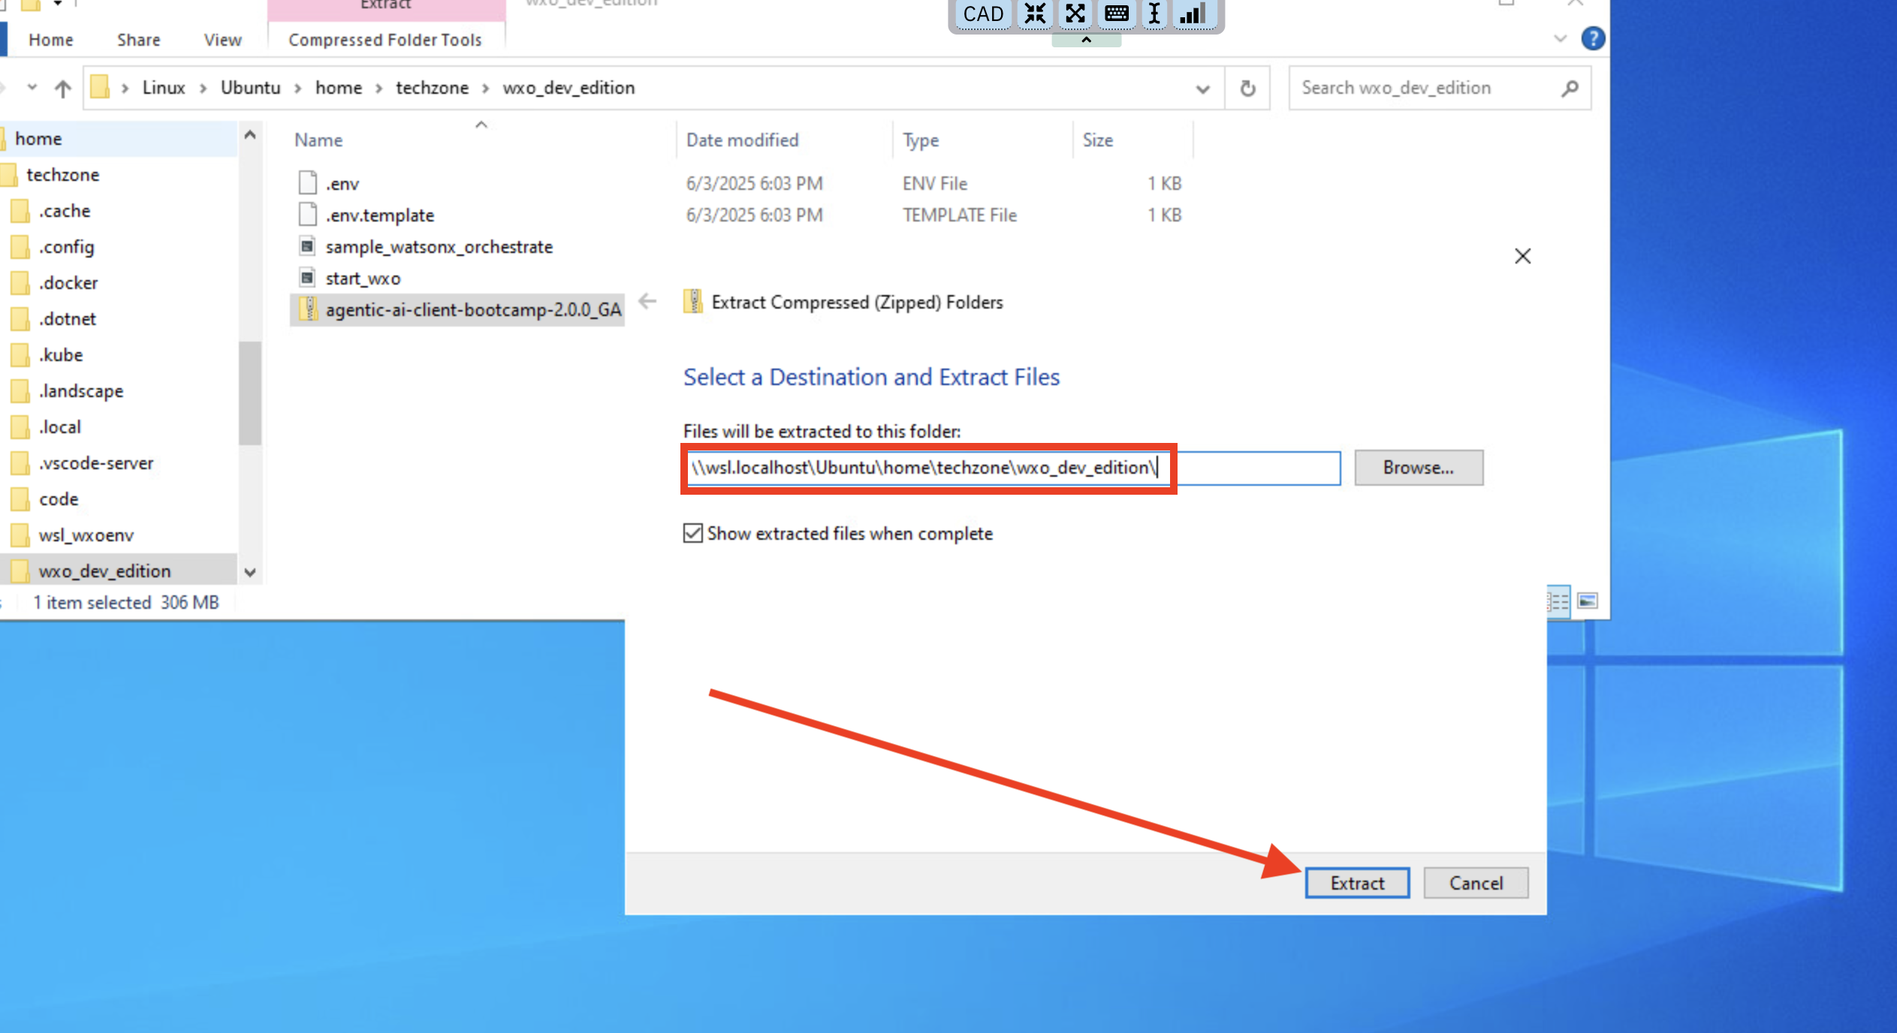
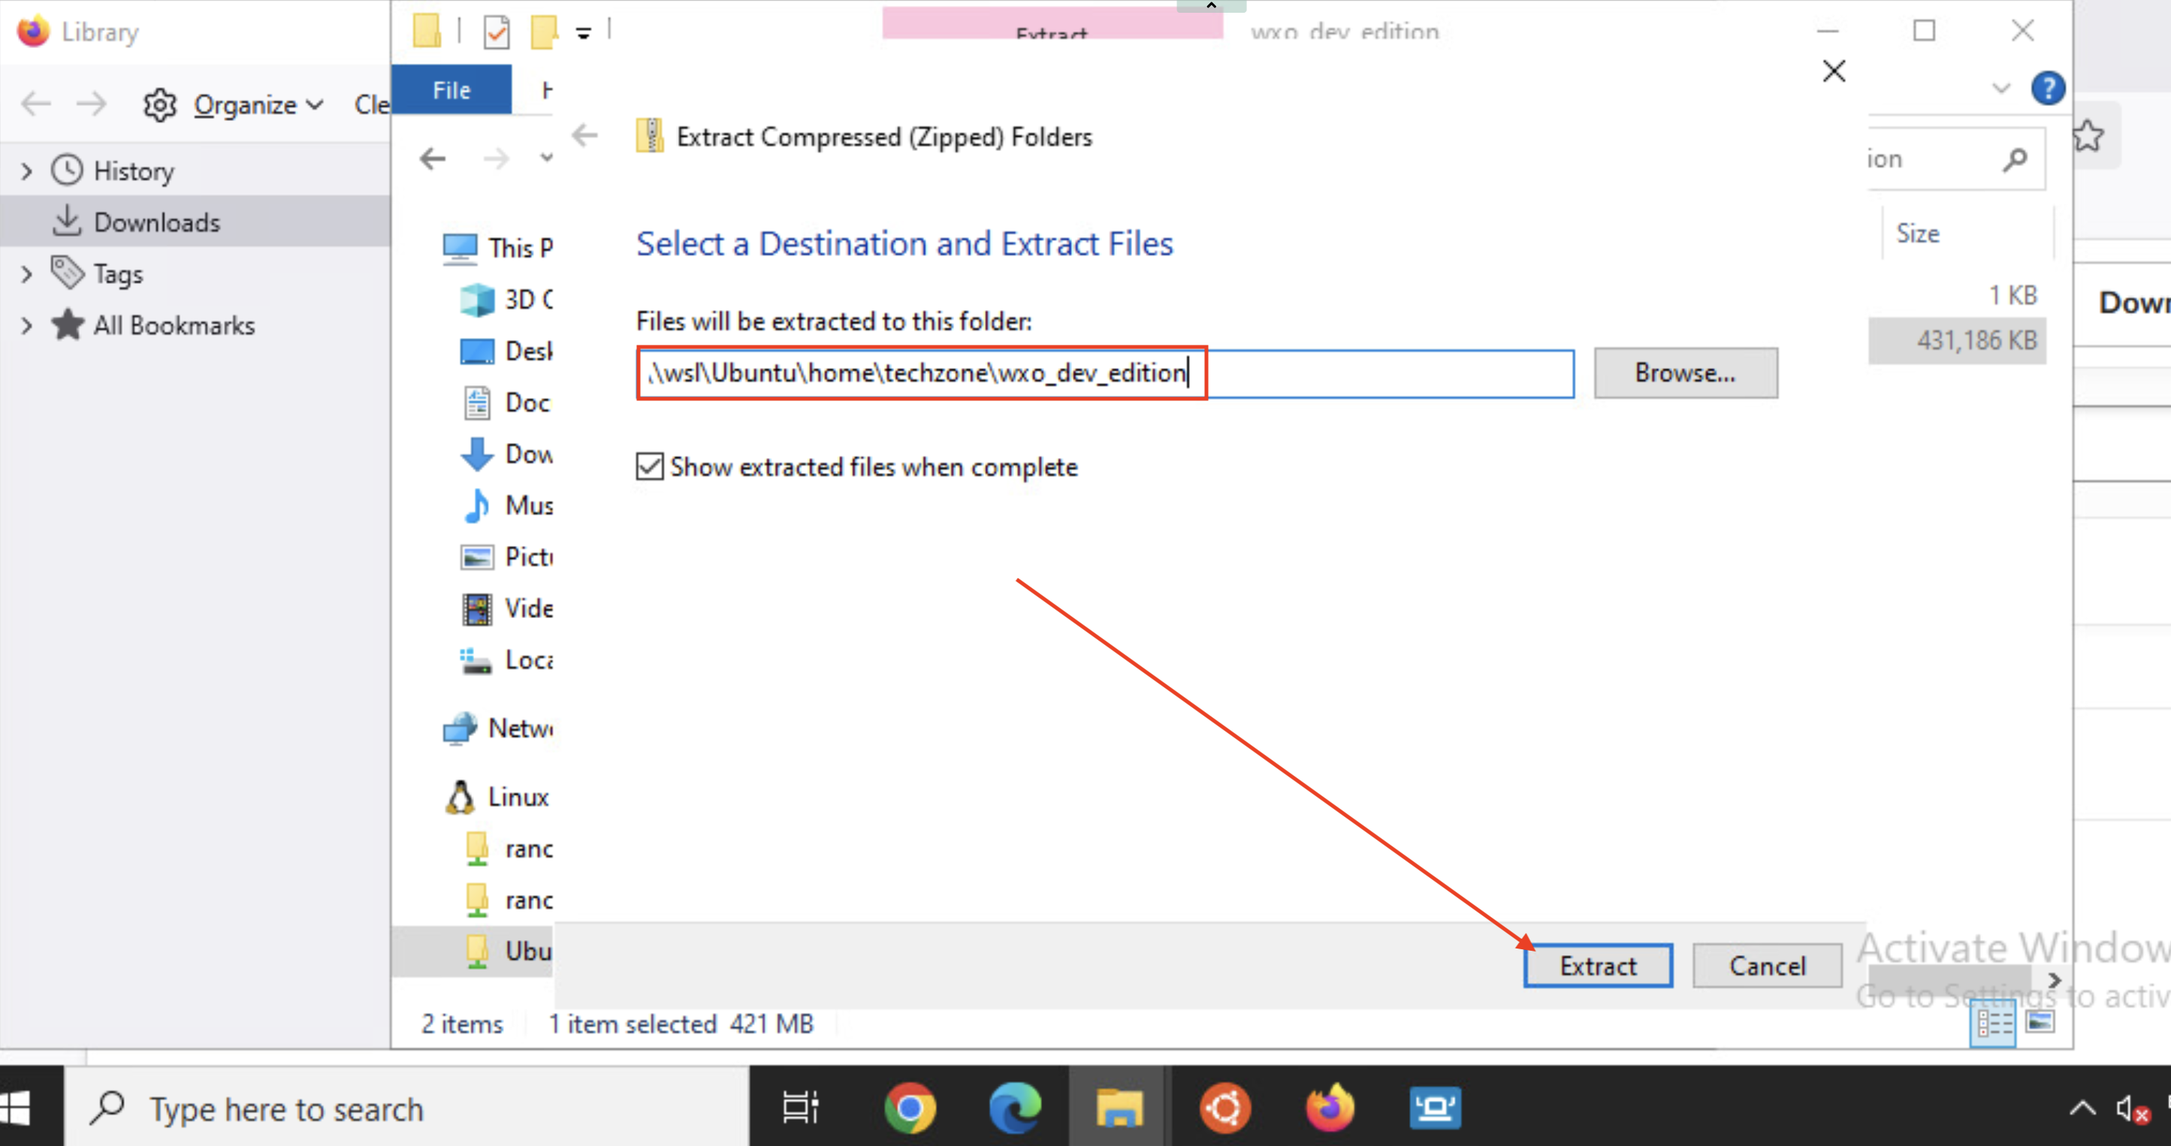
Dev ann (#251)
* Updated Behavior

* updates for latest release

* Sync up dev_ann to main (#248)

* Update hands_on_lab_autoclaim_insurance.md

* Update hands_on_lab_autoclaim_insurance.md

* Update hands_on_lab_autoclaim_insurance.md

* Update hands_on_lab_autoclaim_insurance.md

* remove backup file

* Updated Behavior

* updates for latest release

---------

* Try again (#249)

* Update hands_on_lab_autoclaim_insurance.md

* Update hands_on_lab_autoclaim_insurance.md

* Update hands_on_lab_autoclaim_insurance.md

* Update hands_on_lab_autoclaim_insurance.md

* remove backup file

* Updated Behavior

* updates for latest release

---------

* added steps to migrate to WXO

* fixed image names

* a little cleanup

---------

diff --git a/usecases/retail/src/tools/web_search.py b/usecases/retail/src/tools/web_search.py
@@ -11,29 +11,16 @@ tavily_api_key=''
 is_called_from_orchestrate=True
 
 @tool(
-        {"app_id": CONNECTION_TAVILY, "type": ConnectionType.KEY_VALUE}
+# insert your code here
 )
 def web_search(query: str) -> str:
-    """Use Tavily to search the web and return the top results for a given query string."""
 
-    global tavily_api_key
+# insert your code here
 
-    if is_called_from_orchestrate == True:
-        tavily_api_key = connections.key_value(CONNECTION_TAVILY)['apikey']
-
-    search = TavilySearchResults(max_results=5, tavily_api_key=tavily_api_key)
-    results = search.run(query)
     return results
 
 if __name__ == "__main__":
     parser = argparse.ArgumentParser()
     parser.add_argument("--input", required=True, help="Search string")
 
-    args = parser.parse_args()
-
-    load_dotenv()
-    tavily_api_key=os.getenv("TAVILY_API_KEY")
-    is_called_from_orchestrate=False
-
-    results = web_search(args.input)
-    print("Search results:", results)
+# insert your code here

diff --git a/usecases/ask-hr/assets/hands-on-lab-askHR.md b/usecases/ask-hr/assets/hands-on-lab-askHR.md
@@ -3,13 +3,15 @@
 
 ## Table of Contents
 
-- [Use case description](#use-case-description)
+- [Use Case description](#use-case-description)
 - [Architecture](#architecture)
 - [Pre-requisites](#pre-requisites)
-- [Step by step instructions to build agents](#step-by-step-instructions-to-build-agents)
-  - [Deploying HR agent](#deploying-hr-agent)
+- [Instructions](#instructions)
+  - [Open Agent Builder](#open-agent-builder)
+  - [Create HR Agent](#create-hr-agent)
+  - [Test HR Agent in preview](#test-hr-agent-in-preview)
+  - [Test HR Agent in AI Chat](#test-agent-in-ai-chate)
 
-    
 ## Use Case Description
 
 This use case targets developing and deploying an AskHR agent leveraging IBM watsonx Orchestrate, as depicted in the provided architecture diagram. This agent will empower employees to interact with HR systems and access information efficiently through conversational AI. 
@@ -21,8 +23,6 @@ In this lab we will build an HR agent in watsonx Orchestrate, leveraging tools a
 <img width="1000" alt="image" src="arch_diagm.png">
 
 
-
-
 ## Pre-requisites
 
 - Check with your instructor to make sure **all systems** are up and running before you continue.
@@ -31,114 +31,114 @@ In this lab we will build an HR agent in watsonx Orchestrate, leveraging tools a
 - If you're an instructor running this lab, check the **Instructor's guides** to set up all environments and systems.
 
 
+## Instructions
 
+### Open Agent Builder
 
-## Step by step instructions to build the HR Agent:
+- Log in to IBM Cloud (cloud.ibm.com). Navigate to top left hamburger menu, then to Resource List. Open the AI/Machine Learning section. You should see a **watsonx Orchestrate** service, click to open.
 
-1. When you launch watsonx Orchestrate, you'll be directed to this page. Click on the hamburger menu in the top left corner:
+  <img width="1000" alt="image" src="../../../environment-setup/assets/cloud-resource-list.png">
 
-<img width="1000" alt="image" src="hands-on-lab-assets/step1.png">
+- Click the "Launch watsonx Orchestrate" button.
 
-2. Click on the down arrow next to **Build**.  Then click on **Agent Builder**:
+  <img width="1000" alt="image" src="../../../environment-setup/assets/cloud-wxo.png">
 
-<img width="1000" alt="image" src="hands-on-lab-assets/step2.png">
+- Welcome to watsonx Orchestrate. Open the hamburger menu, click on the down arrow next to **Build**.  Then click on **Agent Builder**:
 
-3. Click on **Create agent +**:
+  <img width="1000" alt="image" src="../../../environment-setup/assets/wxo-agent-builder.png">
 
-<img width="1000" alt="image" src="hands-on-lab-assets/step3.png">
+### Create HR Agent
+1. Click on **Create agent +**:
 
-4. Select "Create from scratch", give your agent a name, e.g. "HR Agent", and fill in the description as shown below: 
+   <img width="1000" alt="image" src="hands-on-lab-assets/step3.png">
 
-```
-You are an agent who handles employee HR queries.  You provide short and crisp responses, keeping the output to 200 words or less.  You can help users check their profile data, retrieve latest time off balance, update title or address, and request time off. You can also answer general questions about company benefits.
-```  
-Click on **Create**:
+1. Select **Create from scratch**, give your agent a name, e.g. `HR Agent`, and fill in the **Description** as shown below: 
 
-<img width="1000" alt="image" src="hands-on-lab-assets/hr_step4.png">
+   ```
+   You are an agent who handles employee HR queries.  You provide short and crisp responses, keeping the output to 200 words or less.  You can help users check their profile data, retrieve latest time off balance, update title or address, and request time off. You can also answer general questions about company benefits.
+   ```  
+   Click on **Create**:
 
-5. Scroll down the screen to the **Knowledge** section. Copy the following description into the **Knowledge Description** section:
+   <img width="1000" alt="image" src="hands-on-lab-assets/hr_step4.png">
 
-```
-This knowledge base addresses the company's employee benefits, including parental leaves, pet policy, flexible work arrangements, and student loan repayment.
-```
+1. Scroll down the screen to the **Knowledge** section. Copy the following description into the **Description** section:
 
-Click on **Upload files**:
+   ```
+   This knowledge base addresses the company's employee benefits, including parental leaves, pet policy, flexible work arrangements, and student loan repayment.
+   ```
 
-<img width="1000" alt="image" src="hands-on-lab-assets/hr_step5.png">
+1. Download the [Employee Benefits.pdf](/usecases/ask-hr/assets/Employee-Benefits.pdf) onto your system, then upload by clicking on **Upload files**:
 
-6. Drag and drop the [Employee Benefits.pdf](/usecases/ask-hr/assets/Employee-Benefits.pdf) and click on **Upload**:
+   <img width="1000" alt="image" src="hands-on-lab-assets/hr_step5.png">
+   <img width="1000" alt="image" src="hands-on-lab-assets/hr_step6.png">  
+   <img width="1000" alt="image" src="hands-on-lab-assets/hr_step7.png">  
 
-<img width="1000" alt="image" src="hands-on-lab-assets/hr_step6.png">  
+1. Scroll down to the **Toolset** section. Click on **Add tool +**:
 
-7. Wait until the file has been uploaded successfully and double check that it is now shown in the Knowledge section: 
+   <img width="1000" alt="image" src="hands-on-lab-assets/hr_step8.png">
 
-<img width="1000" alt="image" src="hands-on-lab-assets/hr_step7.png">  
+1. Select **Import**:
 
-8. Scroll down to the **Toolset** section. Click on **Add tool +**:
+   <img width="1000" alt="image" src="hands-on-lab-assets/step13.png">
 
-<img width="1000" alt="image" src="hands-on-lab-assets/hr_step8.png">
+1. Drag and drop or click to upload the **hr.yaml** file (provided to you by the instructor), then click on **Next**:
 
-9. Select **Import**:
+   <img width="1000" alt="image" src="hands-on-lab-assets/hr_step10.png">    
 
-<img width="1000" alt="image" src="hands-on-lab-assets/step13.png">
+1. Select all the operations and click on **Done**:
 
-10. Drag and drop or click to upload the **hr.yaml** file (provided to you by the instructor), then click on **Next**:
+   <img width="1000" alt="image" src="hands-on-lab-assets/hr_step11.png">
 
-<img width="1000" alt="image" src="hands-on-lab-assets/hr_step10.png">    
+1. Scroll down to the **Behavior** section. Insert the instructions below into the **Instructions** field:
 
-11. Select all the operations and click on **Done**:
+   ```
+   Use your knowledge base to answer general questions about employee benefits. 
 
-<img width="1000" alt="image" src="hands-on-lab-assets/hr_step11.png">
+   Use the tools to get or update user specific information.
 
-12. Scroll down to the **Behavior** section. Insert the instructions below into the **Instructions** field:
+   When user asks to show profile data or check time off balance or update title/address or request time off for the very first time,  first ask the user for their name,  then invoke the tool and then use the same name in the whole session without asking for the name again.
 
-```
-Use your knowledge base to answer general questions about employee benefits. 
+   When the user requests time off, convert the dates to YYYY-MM-DD format, e.g. 5/22/2025 should be converted to 2025-05-22 before passing the date to the post_request_time_off tool.
+   ```
+   <img width="1000" alt="image" src="hands-on-lab-assets/hr_step12.png">
+1. Click on **Deploy** in the top right corner to deploy your agent:
 
-Use the tools to get or update user specific information.
+   <img width="1000" alt="image" src="hands-on-lab-assets/hr_step14.png">
 
-When user asks to show profile data or check time off balance or update title/address or request time off for the very first time,  first ask the user for their name,  then invoke the tool and then use the same name in the whole session without asking for the name again.
-
-When the user requests time off, convert the dates to YYYY-MM-DD format, e.g. 5/22/2025 should be converted to 2025-05-22 before passing the date to the post_request_time_off tool.
- ```
-
- <img width="1000" alt="image" src="hands-on-lab-assets/hr_step12.png">
-
-13. Test your agent in the preview chat on the right side by asking the following questions and validating the responses.  They should look similar to what is shown in the screenshots below:
-
-```
-1. What is the pet policy? 
-
-2. Show me my profile data.
-
-3. I'd like to update my title. 
-
-4. Update my address
-
-5. What is my time off balance?
-
-6. Request time off
-
-7. Show my profile data.
+### Test HR Agent in Preview
+Test your agent in the preview chat on the right side by asking the following questions and validating the responses.  They should look similar to what is shown in the screenshots below:
 
 ```
-
+What is the pet policy? 
+```
 <img width="1000" alt="image" src="hands-on-lab-assets/hr_step13.png">
 
+```
+Show me my profile data.
+I'd like to update my title. 
+```
 <img width="1000" alt="image" src="hands-on-lab-assets/hr_step13_2.png">
 
+```
+Update my address
+What is my time off balance?
+```
 <img width="1000" alt="image" src="hands-on-lab-assets/hr_step13_3.png">
+
+
+```
+Request time off
+Show my profile data.
+```
 
 <img width="1000" alt="image" src="hands-on-lab-assets/hr_step13_4.png">
 
-14. Once you have validated the answers, click on **Deploy** in the top right corner to deploy your agent:
+#### Test HR Agent AI Chat
 
-<img width="1000" alt="image" src="hands-on-lab-assets/hr_step14.png">
-
-15. Click on the hamburger menu in the top left corner and then click on **Chat**:
+Test the Agent from the AI Chat window. Click on the hamburger menu in the top left corner and then click on **Chat**:
 
 <img width="1000" alt="image" src="hands-on-lab-assets/hr_step15.png">
 
-16. Make sure **HR Agent** is selected. You can now test your agent:
+Make sure **HR Agent** is selected. You can now test your agent:
 
 <img width="1000" alt="image" src="hands-on-lab-assets/hr_step16.png">

diff --git a/usecases/autoclaim-insurance/assets/hands_on_lab_autoclaim_insurance.md b/usecases/autoclaim-insurance/assets/hands_on_lab_autoclaim_insurance.md
@@ -9,15 +9,15 @@
   - [Implementation](#implementation)
     - [Pre-requisites](#pre-requisites)
     - [Open Agent Builder](#open-agent-builder)
-      - [Information Agent](#information-agent)
-        - [Create the Information Agent](#create-the-information-agent)
-        - [Test the Information Agent](#test-the-information-agent)
-      - [Customer Claims Agent](#customer-claims-agent)
-        - [Create the Customer Claims Agent](#create-the-customer-claims-agent)
-        - [Test the Customer Claims Agent](#test-the-customer-claims-agent)
-      - [Claim Processor Agent](#claim-processor-agent)
-        - [Create the Claim Processor Agent](#create-the-claim-processor-agent)
-        - [Test the Claim Processor Agent](#test-the-claim-processor-agent)
+    - [Information Agent](#information-agent)
+      - [Create the Information Agent](#create-the-information-agent)
+      - [Test the Information Agent](#test-the-information-agent)
+    - [Customer Claims Agent](#customer-claims-agent)
+      - [Create the Customer Claims Agent](#create-the-customer-claims-agent)
+      - [Test the Customer Claims Agent](#test-the-customer-claims-agent)
+    - [Claim Processor Agent](#claim-processor-agent)
+      - [Create the Claim Processor Agent](#create-the-claim-processor-agent)
+      - [Test the Claim Processor Agent](#test-the-claim-processor-agent)
     - [Further testing via AI Chat](#further-testing-via-ai-chat)
 
 ## Use case description
@@ -47,15 +47,15 @@ For insurers, incoming claims are automatically retrieved and intelligently cros
 
 - Log in to IBM Cloud (cloud.ibm.com). Navigate to top left hamburger menu, then to Resource List. Open the AI/Machine Learning section. You should see a **watsonx Orchestrate** service, click to open.
 
-  <img width="1000" alt="image" src="./screenshots_hands_on_lab/0.png">
+  <img width="1000" alt="image" src="../../../environment-setup/assets/cloud-resource-list.png">
 
 - Click the "Launch watsonx Orchestrate" button.
 
-  <img width="1000" alt="image" src="./screenshots_hands_on_lab/0.5.png">
+  <img width="1000" alt="image" src="../../../environment-setup/assets/cloud-wxo.png">
 
 - Welcome to watsonx Orchestrate. Open the hamburger menu, click on **Build** -> **Agent Builder**.
 
-  <img width="1000" alt="image" src="./screenshots_hands_on_lab/2.png">
+  <img width="1000" alt="image" src="../../../environment-setup/assets/wxo-agent-builder.png">
 
 ### Information Agent
 #### Create the Information Agent
@@ -338,13 +338,15 @@ You can create additional claims for your assigned name to test the next agent.
 - In the **Behavior** section, add the following for **Instructions**:
   ```
   You will begin by welcoming the claim processor and displaying the open claims in a table. 
-  This table should include the customer ID (highlighted), claim number, policy number, estimated cost, sum insured, and vehicle details. Do not show duplicates.
+  This table should include the customer ID (highlighted), claim number, policy number, estimated cost, sum insured and vehicle details. Do not show duplicates.
 
-  Ask the claim processor to select a customer ID.
+  Ask the claim processor to select a customer ID 
 
-  Once a customer ID is selected, fetch the corresponding claim and policy details and show them in a tabular format.
-  If there are more than open claims for a customer ID, ask the claim processor to select a claim 
-  Use the claim number and customer ID to fetch details, and then generatea  summary on the following points
+  If there are multiple claims for a customer ID, ask claim processor to select a claim number.
+
+  Use the claim number and customer id to fetch details using the Fetch Open Claims tool, it's very important, return error if unable to run the tool.
+
+  Once a customer ID is selected, fetch the corresponding claim and policy details for that customer ID and show them in a tabular format and then generate summary on the following points
 
   1. Compare the estimated cost with the sum insured and calculate the approved claim amount by subtracting the deductible. Highlight the approved amount.
 
@@ -354,7 +356,7 @@ You can create additional claims for your assigned name to test the next agent.
 
   4. Determine if the classified accident type is covered by the policy. If policy details are not clear, refer to the knowledge base to verify.
 
-  5. It is mandatory for you to use the 'information_agent' to query for the accident type you discovered in the previous step. Query: The rules and regulations for accident types in the US. Use the result to verify if the claim details are compliant.
+  5. It is mandatory for you to use the information_agent to query for the accident type you discovered in step 4. Query: The rules and regulations for accident type in US. Use the result to verify if the claim details are compliant.
 
   6. Provide a clear recommendation to accept or reject the claim based on these checks.
 
@@ -363,7 +365,7 @@ You can create additional claims for your assigned name to test the next agent.
   8. Create a clear and concise summary for the claim processor, emphasizing key details like approved amount, claim number, and policy number.
   HIGHLIGHT ALL THE DETAILS IN NEAR FORMAT.
 
-  Finally, ask the claim processor, "Do they accept the claim?"
+  Finally, ask the claim processor "Whether they accept the claim?"
   Do not give next steps. 
 
   Once a decision is made, update the claim status and send a message confirming that emails have been sent to the customer and finance team.

diff --git a/environment-setup/retail.md b/environment-setup/retail.md
@@ -83,7 +83,7 @@ When clicking on the Download button, the file will be downloaded into the `Down
 
 ![alt text](assets/image22.png)
 
-Then click on `Show in Folder` to open the file explorer window.
+Then click on the `Show in Folder` icon to open the file explorer window,as shown below.
 
 ![alt text](assets/image23.png)
 
@@ -95,15 +95,11 @@ Now navigate to the `Ubuntu` folder under `Linux` on the left side of the file e
 
 ![alt text](assets/image25.png)
 
-Under the folder, right click on `home -> techzone -> wxo_dev_edition` and click on Paste.
+In the folder, navigate to `home -> techzone -> wxo_dev_edition`, right click and click on Paste.
 
 ![alt text](assets/image26.png)
 
-Open the folder and right-click on the zip file. You may receive a warning that this file is from the Internet. Click OK.
-
-![alt text](assets/image27.png)
-
-In the context window for the zip file, select `Extract all`.
+Open the folder and right-click on the zip file. In the context window for the zip file, select `Extract all`. You may receive a warning that this file is from the Internet. Click OK.
 
 ![alt text](assets/image28.png)
 
@@ -119,17 +115,9 @@ Note that the extraction process can take a couple of minutes. After it complete
 
 VS Code is already installed on the Windows-based virtual machine. To open it, simply type "code" into the search field at the bottom left of the screen. The "VS Code" app will automatically be offered as a choice, and you can open it by clicking on the app icon.
 
-![alt text](assets/image31.png)
-
-Once the application is open, select the `File` -> `Open folder` menu option.
+ The application will automatically open the folder with all the files you are going to need during this lab.
 
 ![alt text](assets/image32.png)
-
-Select the folder named `wxo_dev_edition` from the list.
-
-![alt text](assets/image33.png)
-
-Click OK. This will open the folder with all the files you are going to need during this lab.
 
 ## Environments
 

diff --git a/usecases/retail/retail.md b/usecases/retail/retail.md
@@ -217,6 +217,8 @@ This tool is executing a simple web search, using a service called [Tavily](http
 
 Here you will practice your coding skills! The [provided Python file](./src/tools/web_search.py) is incomplete, and we are asking you to fill in the blanks, so to speak. You can use [the image description tool](#image-to-text-tool) discussed above as a reference example for what the code should look like.
 
+> You can choose to skip this exercise and simply use the completed code in the [web_search.py.complete](./src/tools/web_search.py.complete) file.
+
 The required import statements are already filled into the file. Note how it declares a variable called `CONNECTION_TAVILY`; this represents the name of the connection that is used to retrieve the Tavily API key. You can find sample code showing how to retrieve the value from the connection in the image description tool.
 
 The tool contains one function called web_search. In the @tool declaration, add the definition of the connection so that it is available in the body of the function.
